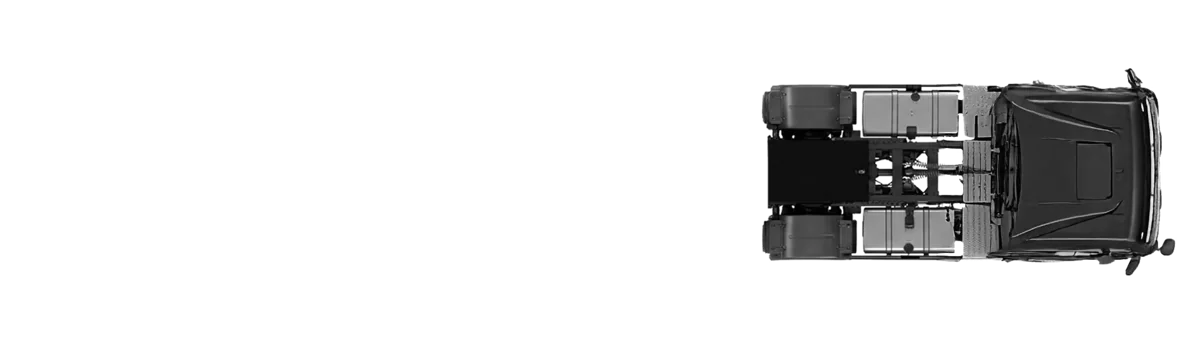
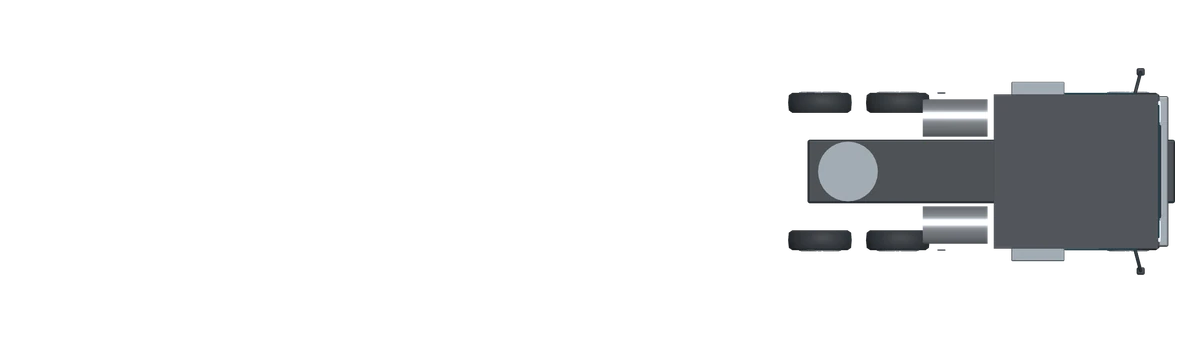
feat(landing): 도로 장면 위 트럭을 CC0 모델 렌더로 교체
권리 미확인 United Carriers 레퍼런스(truck-top.webp)를 저장소에 이미 있는
Innerscene CC0 트랙터 모델의 위에서 본 렌더로 바꾼다. 같은 1200×337 캔버스와
같은 위치에 두어 엔진이 겹치는 컨테이너 지붕과의 연결 구도는 그대로다.

Claude-Session: https://claude.ai/code/session_01TcZ5K4vjQFau8Th1uJ9YrD

Changed region(s): [[0.6167, 0.2077, 0.9867, 0.8309]]

diff --git a/docs/reviews/evidence/truck-top-20261105/README.md b/docs/reviews/evidence/truck-top-20261105/README.md
@@ -1,0 +1,26 @@
+# 도로 장면 위에서 본 트럭 이미지 교체 (#51)
+
+- 구현: Claude Opus 5.5 (`claude-opus-5-5`, Anthropic). 자체 검사이며 독립 검토는 Codex 담당.
+- 기준: `feat/landing-redesign` `031406a`. 변경: `frontend/public/images/multimodal/truck-top.webp` 한 장과 같은 폴더 `SOURCES.md` 한 줄. 코드·엔진(`jsl-multimodal.mjs`)·컨테이너 지붕(`roof-quality.avif`)·항만·창고 이미지는 그대로입니다.
+
+## 출처
+- 원본: 저장소에 이미 있는 `frontend/public/images/landing/industrial/truck-original.glb`. Innerscene "Semi tractor and box trailer", CC0 ([조건](https://www.innerscene.com/tools/library/terms)). 기록은 `docs/landing/FREE-ASSET-SOURCES.md`, 바이트 일치 원본은 `tools/landing-review/artifacts/logistics-models-20261006/`.
+- 새 타사 이미지는 넣지 않았습니다. 교체 전 파일은 United Carriers 레퍼런스(권리 미확인)였습니다.
+
+## 만든 방법
+Three.js 0.185(저장소 `node_modules`) + headless Chromium. 직교 카메라로 바로 위에서 2400×1200 투명 배경 렌더 → 트레일러 계열 메시(`Box_trailer`, `Trailer_chassis`, `Rear_door`, `Door_lock_rod`, `Landing_leg/shoe`, 후미등) 86개 숨김, 트랙터 112개 유지 → 캡 도장 재질(`orange`, `blue`)만 `#2b2f36`으로 → 트랙터 알파 영역으로 자르고 좌우 반전(캡이 오른쪽) → 높이 207px로 줄여 기존과 같은 1200×337 투명 캔버스의 같은 자리(오른쪽 끝 x 1175, y 68–275)에 배치. 엔진은 이 이미지 왼쪽 위에 컨테이너 지붕을 겹치므로 연결 구도는 그대로입니다.
+
+## 전후 (운영 빌드 `next start`, 같은 스크롤 위치·같은 크기)
+| 파일 | 조건 |
+|---|---|
+| `pc-1440x900-light-before-after.jpg` | en 1440×900, 스크롤 8400 |
+| `mobile-390x844-light-before-after.jpg` | ko 390×844, 스크롤 7100 |
+| `pc-truck-zoom-before-after.jpg` | PC 트럭 부분 2배 확대 |
+
+두 위치 모두 트럭 요소 불투명도 1, 위치·크기 전후 동일(PC 245–519 × 232–309, 모바일 12–191 × 289–353), 페이지 오류 0. 다크 색 구성표로도 찍었지만 이 장면은 색 구성표와 무관하게 같은 화면이라 라이트만 올렸습니다.
+
+## 한계
+- `FREE-ASSET-SOURCES.md`는 이 모델을 측면 장면용으로 "직육면체 캡, 단색 재질로 사실성 미달"이라 판단했습니다. 위에서 보면 약 70px 크기라 차이가 작지만, 기존보다 디테일이 단순합니다. 사용자 시각 승인이 필요합니다.
+- 좌우 반전이라 운전석 쪽이 바뀝니다(위에서 보는 실루엣은 대칭).
+- 사이드 마커 몇 픽셀이 남아 있습니다(확대해야 보임).
+- Safari·실기기는 확인하지 않았습니다.

diff --git a/frontend/public/images/multimodal/SOURCES.md b/frontend/public/images/multimodal/SOURCES.md
@@ -10,7 +10,7 @@ Copied unchanged from `jsl-design-prototypes` (`build-app-module.mjs` output). P
 | `roof-quality.avif` | JSL-painted roof render from the earlier cargo quality pass | Verify editable source and asset policy |
 | `truck-preview.avif` | Approved JSL industrial truck cutout | Confirm original source and rights |
 | `port.webp`, `warehouse.webp` | MagicPath visual candidates inherited by the base sequence | Confirm origin or replace with cleared JSL imagery |
-| `truck-top.webp` | United Carriers top-truck reference, resized | Replace or obtain usage permission |
+| `truck-top.webp` | Replaced 2026-11-05 (#51): top-down orthographic render of `../landing/industrial/truck-original.glb` (Innerscene "Semi tractor and box trailer", CC0, see `docs/landing/FREE-ASSET-SOURCES.md`). Trailer meshes hidden, cab paint set to `#2b2f36`, mirrored so the cab faces right, placed in the same 1200×337 transparent canvas (opaque x 788–1175, y 68–275). The earlier United Carriers reference is no longer shipped | None for the model (CC0); visual approval by the site owner |
 | `plane.avif`, `cloud-left.avif`, `cloud-right.avif` | Replaced 2026-10-31: generated by the site owner with Gemini (plane on chroma green, cloud on black), keyed by Claude; `cloud-right` is `cloud-left` mirrored. Same files in `../journey/`. Earlier United Carriers files are no longer shipped | Confirm the image generator's terms for commercial use |
 | `GeneralSans-400.woff2`, `GeneralSans-700.woff2` | Prototype font files | Confirm source and license |
 | `vessel-hold-photographic.jpg`, `vessel-fallback-mobile.jpg` | Internal Cycles renders at progress 65, used when WebGL is unavailable | Inherited model and asset clearance applies |
